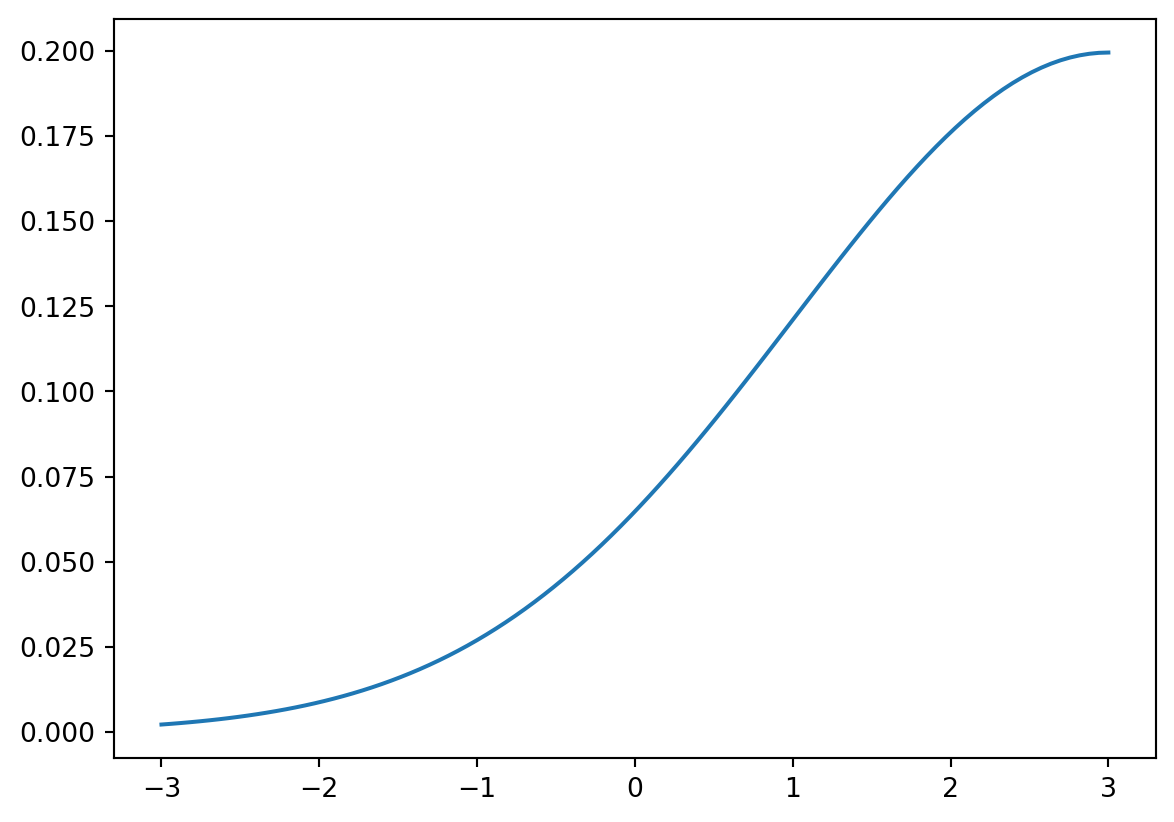
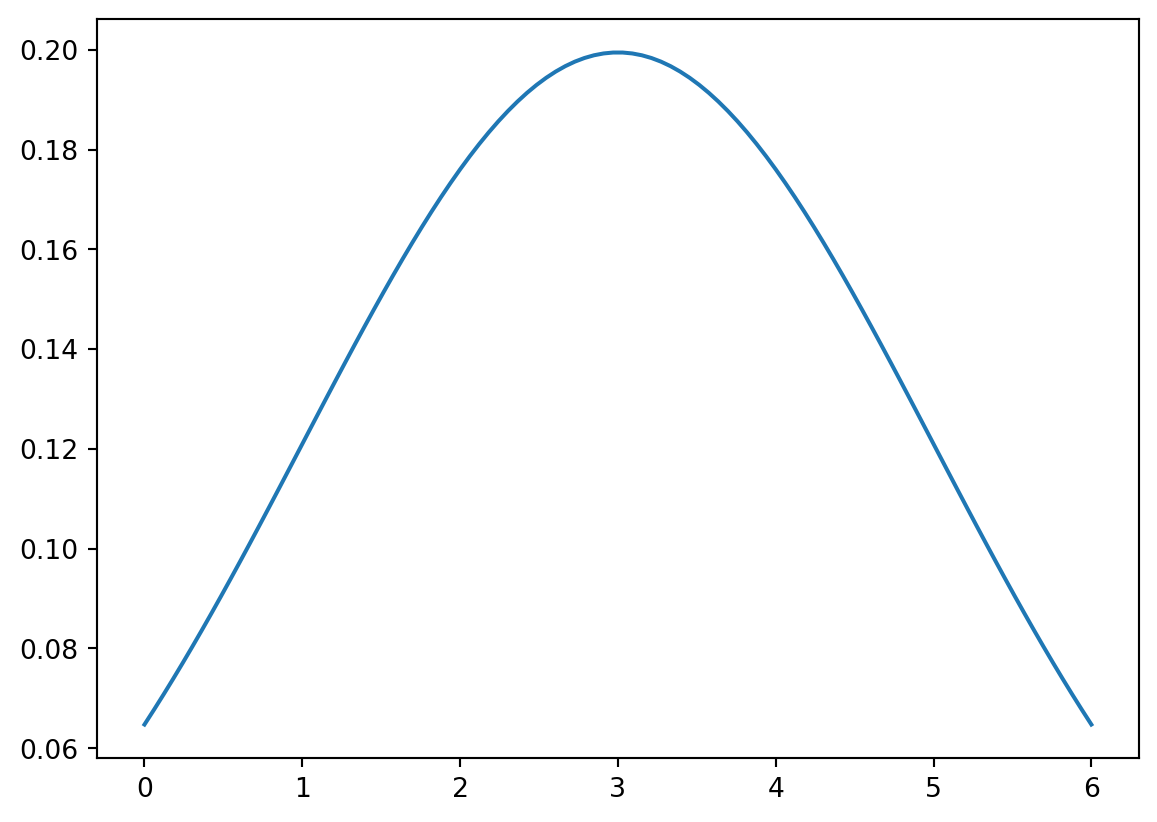
0805

diff --git a/docs/posts/hw4/hw4.html b/docs/posts/hw4/hw4.html
@@ -199,7 +199,7 @@ pre > code.sourceCode > span > a:first-child::before { text-decoration: underlin
 
 <section id="정규분포-pdf-값을-계산하는-자신만의-파이썬-함수를-정의하고-정규분포-mu-3-sigma-2-의-pdf를-그릴-것." class="level2">
 <h2 class="anchored" data-anchor-id="정규분포-pdf-값을-계산하는-자신만의-파이썬-함수를-정의하고-정규분포-mu-3-sigma-2-의-pdf를-그릴-것.">1. 정규분포 pdf 값을 계산하는 자신만의 파이썬 함수를 정의하고, 정규분포 mu = 3, sigma = 2 의 pdf를 그릴 것.</h2>
-<div id="da9be260" class="cell" data-execution_count="1">
+<div id="72517cdc" class="cell" data-execution_count="1">
 <div class="sourceCode cell-code" id="cb1"><pre class="sourceCode python code-with-copy"><code class="sourceCode python"><span id="cb1-1"><a href="#cb1-1" aria-hidden="true" tabindex="-1"></a><span class="im">from</span> scipy.stats <span class="im">import</span> binom</span>
 <span id="cb1-2"><a href="#cb1-2" aria-hidden="true" tabindex="-1"></a><span class="im">import</span> numpy <span class="im">as</span> np</span>
 <span id="cb1-3"><a href="#cb1-3" aria-hidden="true" tabindex="-1"></a><span class="im">import</span> seaborn <span class="im">as</span> sns</span>
@@ -211,14 +211,14 @@ pre > code.sourceCode > span > a:first-child::before { text-decoration: underlin
 <span id="cb1-9"><a href="#cb1-9" aria-hidden="true" tabindex="-1"></a><span class="kw">def</span> f(x):</span>
 <span id="cb1-10"><a href="#cb1-10" aria-hidden="true" tabindex="-1"></a>    <span class="cf">return</span> (<span class="dv">1</span> <span class="op">/</span> (<span class="dv">2</span> <span class="op">*</span> np.sqrt(<span class="dv">2</span> <span class="op">*</span> math.pi))) <span class="op">*</span> np.exp(<span class="op">-</span><span class="fl">0.5</span> <span class="op">*</span> ((x <span class="op">-</span> <span class="dv">3</span>) <span class="op">/</span> <span class="dv">2</span>) <span class="op">**</span> <span class="dv">2</span>)</span>
 <span id="cb1-11"><a href="#cb1-11" aria-hidden="true" tabindex="-1"></a></span>
-<span id="cb1-12"><a href="#cb1-12" aria-hidden="true" tabindex="-1"></a>x <span class="op">=</span> np.linspace(<span class="op">-</span><span class="dv">3</span>, <span class="dv">3</span>, <span class="dv">100</span>)</span>
+<span id="cb1-12"><a href="#cb1-12" aria-hidden="true" tabindex="-1"></a>x <span class="op">=</span> np.linspace(<span class="dv">0</span>, <span class="dv">6</span>, <span class="dv">100</span>)</span>
 <span id="cb1-13"><a href="#cb1-13" aria-hidden="true" tabindex="-1"></a>plt.plot(x, f(x))</span>
 <span id="cb1-14"><a href="#cb1-14" aria-hidden="true" tabindex="-1"></a>plt.show()</span>
 <span id="cb1-15"><a href="#cb1-15" aria-hidden="true" tabindex="-1"></a>plt.clf()</span></code><button title="Copy to Clipboard" class="code-copy-button"><i class="bi"></i></button></pre></div>
 <div class="cell-output cell-output-display">
 <div>
 <figure class="figure">
-<p><img src="hw4_files/figure-html/cell-2-output-1.png" width="587" height="411" class="figure-img"></p>
+<p><img src="hw4_files/figure-html/cell-2-output-1.png" width="579" height="411" class="figure-img"></p>
 </figure>
 </div>
 </div>
@@ -235,17 +235,17 @@ pre > code.sourceCode > span > a:first-child::before { text-decoration: underlin
 <ol type="1">
 <li>P(X &lt; 3)</li>
 </ol>
-<div id="cbe93e3a" class="cell" data-execution_count="2">
+<div id="f119be80" class="cell" data-execution_count="2">
 <div class="sourceCode cell-code" id="cb3"><pre class="sourceCode python code-with-copy"><code class="sourceCode python"><span id="cb3-1"><a href="#cb3-1" aria-hidden="true" tabindex="-1"></a><span class="im">from</span> scipy.stats <span class="im">import</span> norm</span>
-<span id="cb3-2"><a href="#cb3-2" aria-hidden="true" tabindex="-1"></a>norm.cdf(<span class="dv">2</span>, loc <span class="op">=</span> <span class="dv">2</span>, scale<span class="op">=</span><span class="dv">3</span>)</span></code><button title="Copy to Clipboard" class="code-copy-button"><i class="bi"></i></button></pre></div>
+<span id="cb3-2"><a href="#cb3-2" aria-hidden="true" tabindex="-1"></a>norm.cdf(<span class="dv">3</span>, loc <span class="op">=</span> <span class="dv">2</span>, scale<span class="op">=</span><span class="dv">3</span>)</span></code><button title="Copy to Clipboard" class="code-copy-button"><i class="bi"></i></button></pre></div>
 <div class="cell-output cell-output-display" data-execution_count="2">
-<pre><code>0.5</code></pre>
+<pre><code>0.6305586598182363</code></pre>
 </div>
 </div>
 <ol start="2" type="1">
 <li>P(2 &lt; X &lt; 5)</li>
 </ol>
-<div id="f080c86a" class="cell" data-execution_count="3">
+<div id="24a7e9e1" class="cell" data-execution_count="3">
 <div class="sourceCode cell-code" id="cb5"><pre class="sourceCode python code-with-copy"><code class="sourceCode python"><span id="cb5-1"><a href="#cb5-1" aria-hidden="true" tabindex="-1"></a><span class="fl">0.5</span> <span class="op">-</span> norm.cdf(<span class="op">-</span><span class="dv">1</span>, <span class="dv">2</span>, <span class="dv">3</span>)</span></code><button title="Copy to Clipboard" class="code-copy-button"><i class="bi"></i></button></pre></div>
 <div class="cell-output cell-output-display" data-execution_count="3">
 <pre><code>0.3413447460685429</code></pre>
@@ -254,7 +254,7 @@ pre > code.sourceCode > span > a:first-child::before { text-decoration: underlin
 <ol start="3" type="1">
 <li>P(X &lt; 3 or X &gt; 7)</li>
 </ol>
-<div id="8f99cc9c" class="cell" data-execution_count="4">
+<div id="0eb7c850" class="cell" data-execution_count="4">
 <div class="sourceCode cell-code" id="cb7"><pre class="sourceCode python code-with-copy"><code class="sourceCode python"><span id="cb7-1"><a href="#cb7-1" aria-hidden="true" tabindex="-1"></a>norm.cdf(<span class="dv">3</span>, loc<span class="op">=</span><span class="dv">2</span>, scale<span class="op">=</span><span class="dv">3</span>) <span class="op">+</span> (<span class="dv">1</span> <span class="op">-</span> norm.cdf(<span class="dv">7</span>, loc<span class="op">=</span><span class="dv">2</span>, scale<span class="op">=</span><span class="dv">3</span>))</span></code><button title="Copy to Clipboard" class="code-copy-button"><i class="bi"></i></button></pre></div>
 <div class="cell-output cell-output-display" data-execution_count="4">
 <pre><code>0.678349012091051</code></pre>
@@ -263,7 +263,7 @@ pre > code.sourceCode > span > a:first-child::before { text-decoration: underlin
 </section>
 <section id="ls-빅데이터-스쿨-학생들의-중간고사-점수는-평균이-30이고-분산이-4인-정규분포를-따른다.-상위-5에-해당하는-학생의-점수는" class="level2">
 <h2 class="anchored" data-anchor-id="ls-빅데이터-스쿨-학생들의-중간고사-점수는-평균이-30이고-분산이-4인-정규분포를-따른다.-상위-5에-해당하는-학생의-점수는">3. LS 빅데이터 스쿨 학생들의 중간고사 점수는 평균이 30이고, 분산이 4인 정규분포를 따른다. 상위 5%에 해당하는 학생의 점수는?</h2>
-<div id="14566644" class="cell" data-execution_count="5">
+<div id="fd43533b" class="cell" data-execution_count="5">
 <div class="sourceCode cell-code" id="cb9"><pre class="sourceCode python code-with-copy"><code class="sourceCode python"><span id="cb9-1"><a href="#cb9-1" aria-hidden="true" tabindex="-1"></a><span class="co"># loc = 30, scale = 2^2</span></span>
 <span id="cb9-2"><a href="#cb9-2" aria-hidden="true" tabindex="-1"></a></span>
 <span id="cb9-3"><a href="#cb9-3" aria-hidden="true" tabindex="-1"></a>norm.ppf(<span class="fl">0.95</span>, <span class="dv">30</span>, <span class="dv">2</span>)</span></code><button title="Copy to Clipboard" class="code-copy-button"><i class="bi"></i></button></pre></div>

diff --git a/docs/posts/hw7/hw7.html b/docs/posts/hw7/hw7.html
@@ -207,7 +207,7 @@ pre > code.sourceCode > span > a:first-child::before { text-decoration: underlin
 <h2 class="anchored" data-anchor-id="교재-57p-신형-자동차의-에너지-소비효율-등급">교재 57p 신형 자동차의 에너지 소비효율 등급</h2>
 <section id="패키지-불러오기" class="level3">
 <h3 class="anchored" data-anchor-id="패키지-불러오기">패키지 불러오기</h3>
-<div id="e4f481b2" class="cell" data-execution_count="1">
+<div id="d70cdd76" class="cell" data-execution_count="1">
 <div class="sourceCode cell-code" id="cb1"><pre class="sourceCode python code-with-copy"><code class="sourceCode python"><span id="cb1-1"><a href="#cb1-1" aria-hidden="true" tabindex="-1"></a><span class="im">import</span> numpy <span class="im">as</span> np</span>
 <span id="cb1-2"><a href="#cb1-2" aria-hidden="true" tabindex="-1"></a><span class="im">import</span> pandas <span class="im">as</span> pd</span>
 <span id="cb1-3"><a href="#cb1-3" aria-hidden="true" tabindex="-1"></a><span class="im">import</span> numpy <span class="im">as</span> np</span>
@@ -222,7 +222,7 @@ pre > code.sourceCode > span > a:first-child::before { text-decoration: underlin
 </section>
 <section id="검정통계량을-계산하시오" class="level2">
 <h2 class="anchored" data-anchor-id="검정통계량을-계산하시오">3. 검정통계량을 계산하시오</h2>
-<div id="be1af550" class="cell" data-execution_count="2">
+<div id="dc00d0e6" class="cell" data-execution_count="2">
 <div class="sourceCode cell-code" id="cb2"><pre class="sourceCode python code-with-copy"><code class="sourceCode python"><span id="cb2-1"><a href="#cb2-1" aria-hidden="true" tabindex="-1"></a>x <span class="op">=</span> np.array([<span class="fl">15.078</span>, <span class="fl">15.752</span>, <span class="fl">15.549</span>, <span class="fl">15.56</span>, <span class="fl">16.098</span>, <span class="fl">13.277</span>, <span class="fl">15.462</span>, <span class="fl">16.116</span>, <span class="fl">15.214</span>, <span class="fl">16.93</span>, <span class="fl">14.118</span>, <span class="fl">14.927</span>,</span>
 <span id="cb2-2"><a href="#cb2-2" aria-hidden="true" tabindex="-1"></a><span class="fl">15.382</span>, <span class="fl">16.709</span>, <span class="fl">16.804</span>])</span>
 <span id="cb2-3"><a href="#cb2-3" aria-hidden="true" tabindex="-1"></a>n <span class="op">=</span> <span class="dv">15</span></span>
@@ -236,14 +236,14 @@ pre > code.sourceCode > span > a:first-child::before { text-decoration: underlin
 </div>
 <section id="pvalue을-구하세요" class="level3">
 <h3 class="anchored" data-anchor-id="pvalue을-구하세요">4. p‑value을 구하세요</h3>
-<div id="aec23c66" class="cell" data-execution_count="3">
+<div id="50a99e71" class="cell" data-execution_count="3">
 <div class="sourceCode cell-code" id="cb4"><pre class="sourceCode python code-with-copy"><code class="sourceCode python"><span id="cb4-1"><a href="#cb4-1" aria-hidden="true" tabindex="-1"></a><span class="co"># 그래프 그리기</span></span>
 <span id="cb4-2"><a href="#cb4-2" aria-hidden="true" tabindex="-1"></a>p_value <span class="op">=</span> norm.cdf(x_bar, loc<span class="op">=</span><span class="dv">16</span>, scale<span class="op">=</span>(x_std <span class="op">/</span> np.sqrt(<span class="dv">15</span>)))</span></code><button title="Copy to Clipboard" class="code-copy-button"><i class="bi"></i></button></pre></div>
 </div>
 </section>
 <section id="현대자동차의-신형-모델의-평균-복합-에너지-소비효율에-대하여-95-신뢰구간을-구해보세요." class="level3">
 <h3 class="anchored" data-anchor-id="현대자동차의-신형-모델의-평균-복합-에너지-소비효율에-대하여-95-신뢰구간을-구해보세요.">6. 현대자동차의 신형 모델의 평균 복합 에너지 소비효율에 대하여 95% 신뢰구간을 구해보세요.</h3>
-<div id="11175e79" class="cell" data-execution_count="4">
+<div id="c43d1f13" class="cell" data-execution_count="4">
 <div class="sourceCode cell-code" id="cb5"><pre class="sourceCode python code-with-copy"><code class="sourceCode python"><span id="cb5-1"><a href="#cb5-1" aria-hidden="true" tabindex="-1"></a><span class="im">from</span> scipy.stats <span class="im">import</span> t</span>
 <span id="cb5-2"><a href="#cb5-2" aria-hidden="true" tabindex="-1"></a></span>
 <span id="cb5-3"><a href="#cb5-3" aria-hidden="true" tabindex="-1"></a>se <span class="op">=</span> np.std(x, ddof<span class="op">=</span><span class="dv">1</span>) <span class="op">/</span> np.sqrt(n)</span>

diff --git a/docs/blog.html b/docs/blog.html
@@ -235,7 +235,7 @@ Aug 5, 2024
 </a>
 </div>
 </div>
-<div class="quarto-post image-right" data-index="1" data-categories="bigdata" data-listing-date-sort="1722265200000" data-listing-file-modified-sort="1722382513975" data-listing-date-modified-sort="NaN" data-listing-reading-time-sort="2" data-listing-word-count-sort="264">
+<div class="quarto-post image-right" data-index="1" data-categories="bigdata" data-listing-date-sort="1722265200000" data-listing-file-modified-sort="1722850342968" data-listing-date-modified-sort="NaN" data-listing-reading-time-sort="2" data-listing-word-count-sort="264">
 <div class="thumbnail">
 <p><a href="./posts/hw6/hw6.html" class="no-external"></a></p><a href="./posts/hw6/hw6.html" class="no-external">
 <div class="listing-item-img-placeholder card-img-top" >&nbsp;</div>
@@ -343,7 +343,7 @@ Jul 22, 2024
 </a>
 </div>
 </div>
-<div class="quarto-post image-right" data-index="4" data-categories="bigdata" data-listing-date-sort="1721574000000" data-listing-file-modified-sort="1721959550159" data-listing-date-modified-sort="NaN" data-listing-reading-time-sort="1" data-listing-word-count-sort="123">
+<div class="quarto-post image-right" data-index="4" data-categories="bigdata" data-listing-date-sort="1721574000000" data-listing-file-modified-sort="1722850356638" data-listing-date-modified-sort="NaN" data-listing-reading-time-sort="1" data-listing-word-count-sort="126">
 <div class="thumbnail">
 <p><a href="./posts/hw4/hw4.html" class="no-external"></a></p><a href="./posts/hw4/hw4.html" class="no-external">
 <p class="card-img-top"><img src="posts\hw4\hw4_files\figure-html\cell-2-output-1.png"  class="thumbnail-image card-img"/></p>
@@ -364,7 +364,7 @@ bigdata
 <div class="listing-description">
 <a href="./posts/hw4/hw4.html" class="no-external">
 
-<div id="da9be260" class="cell" data-execution_count="1">
+<div id="72517cdc" class="cell" data-execution_count="1">
 <div class="sourceCode cell-code" id="cb1"><pre class="sourceCode python code-with-copy"><code class="sourceCode python"><span id="cb1-1"><span class="im">from</span> scipy.stats <span class="im">import</span> binom</span>
 <span id="cb1-2"><span class="im">import</span> numpy <span class="im">as</span> np</span>
 <span id="cb1-3"><span class="im">import</span> seaborn <span class="im">as</span> sns</span>
@@ -374,7 +374,7 @@ bigdata
 <span id="cb1-7"></span>
 <span id="cb1-8"><span class="co"># loc = 3, scale = 2</span></span>
 <span id="cb1-9"><span class="kw">def</span> f(x):</span>
-<span id="cb1-10">    <span class="cf">…</span><span class="dv"></span><span class="op"></span><span class="dv"></span><span class="op"></span><span class="dv"></span><span class="op"></span><span class="op"></span><span class="op"></span><span class="fl"></span><span class="op"></span><span class="op"></span><span class="dv"></span><span class="op"></span><span class="dv"></span><span class="op"></span><span class="dv"></span></span><span id="cb1-11"></span><span id="cb1-12"><span class="op"></span><span class="op"></span><span class="dv"></span><span class="dv"></span><span class="dv"></span></span><span id="cb1-13"></span><span id="cb1-14"></span><span id="cb1-15"></span></code></pre></div><div class="cell-output cell-output-display"><div><figure class="figure"><p></p></figure></div></div><div class="cell-output cell-output-display"><pre><code></code></pre></div></div></a>
+<span id="cb1-10">    <span class="cf">…</span><span class="dv"></span><span class="op"></span><span class="dv"></span><span class="op"></span><span class="dv"></span><span class="op"></span><span class="op"></span><span class="op"></span><span class="fl"></span><span class="op"></span><span class="op"></span><span class="dv"></span><span class="op"></span><span class="dv"></span><span class="op"></span><span class="dv"></span></span><span id="cb1-11"></span><span id="cb1-12"><span class="op"></span><span class="dv"></span><span class="dv"></span><span class="dv"></span></span><span id="cb1-13"></span><span id="cb1-14"></span><span id="cb1-15"></span></code></pre></div><div class="cell-output cell-output-display"><div><figure class="figure"><p></p></figure></div></div><div class="cell-output cell-output-display"><pre><code></code></pre></div></div></a>
 </div>
 </div>
 <div class="metadata">
